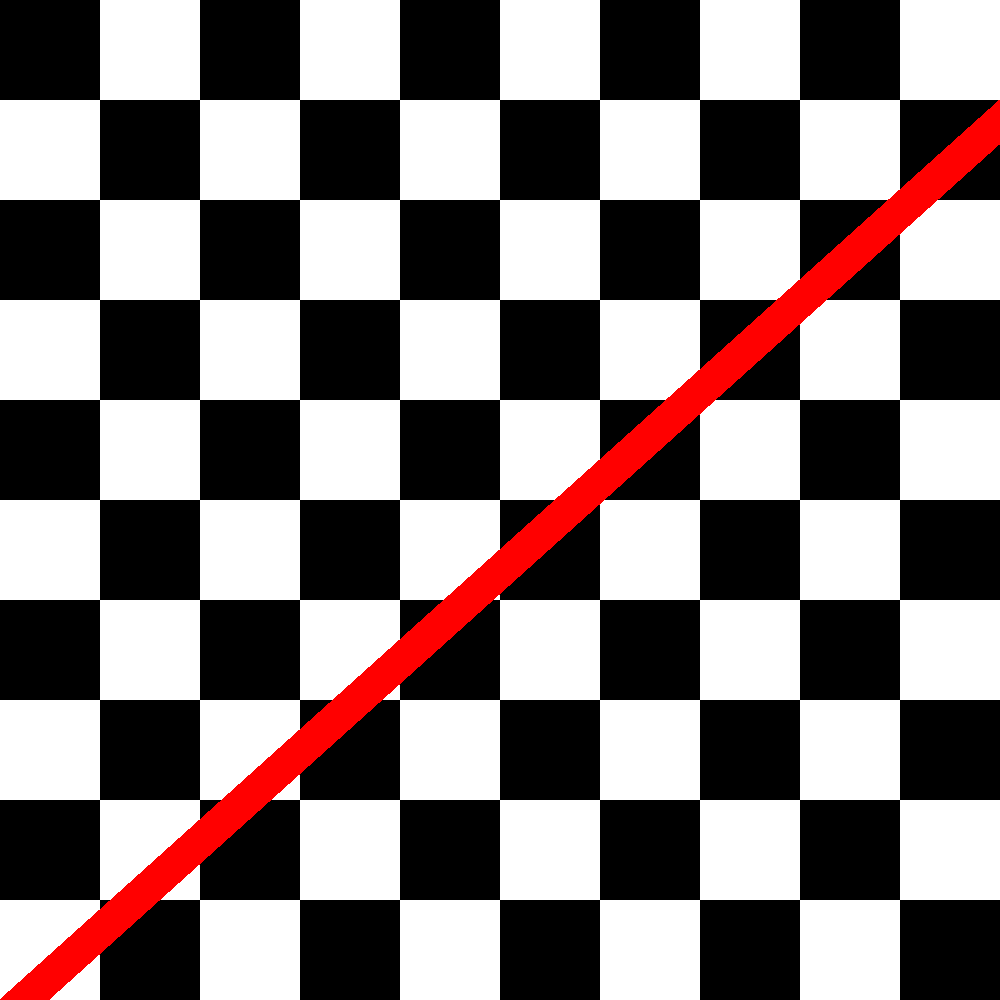
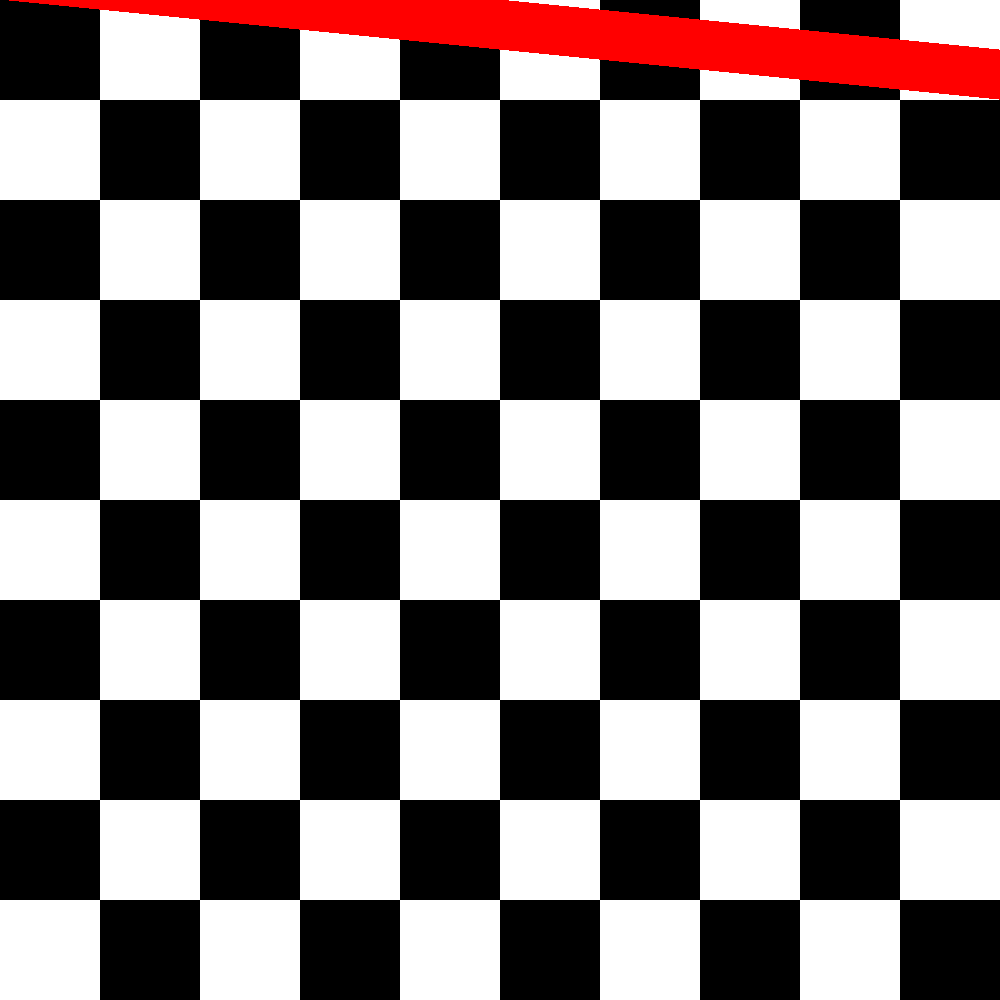
Delete lib.rs

Changed region(s): [[0.0, 0.0, 1.0, 1.0]]

diff --git a/src/lib.rs b/src/lib.rs
@@ -1,159 +1,3 @@
 pub mod components;
 pub mod config;
 pub mod error;
-
-// #[derive(Debug, Clone)]
-// pub struct Buffer {
-//     pub content: Option<ImageBuffer<Rgb<u8>, Vec<u8>>>,
-//     config: Option<Config>,
-// }
-
-// impl Buffer {
-//     pub fn new() -> Self {
-//         Self {
-//             config: None,
-//             content: None,
-//         }
-//     }
-//     pub fn config(&mut self, config: Config) -> &mut Buffer {
-//         self.config = Some(config);
-//         self
-//     }
-//     pub fn build(&mut self) -> Result<Buffer, Box<dyn Error>> {
-//         if let Some(config) = self.config {
-//             let width = config.width;
-//             let height = config.height;
-//             let color = config.color;
-
-//             let mut image_buffer = RgbImage::new(width, height);
-
-//             for y in 0..height {
-//                 for x in 0..width {
-//                     image_buffer.put_pixel(x, y, color);
-//                 }
-//             }
-//             self.content = Some(image_buffer);
-//             Ok(self.to_owned())
-//         } else {
-//             Err(Box::new(CustomError::BuildError))
-//         }
-//     }
-//     pub fn draw_rect(&mut self, x1: u32, y1: u32, w: u32, h: u32, color: Rgb<u8>) {
-//         if let Some(config) = self.config {
-//             let x2 = x1 + w;
-//             let y2 = y1 + h;
-//             if y2 > config.height || x2 > config.height {
-//                 eprintln!("ERROR: out of canvas");
-//                 std::process::exit(1);
-//             }
-
-//             for y in y1..y2 {
-//                 for x in x1..x2 {
-//                     let content = self.content.as_mut().unwrap();
-//                     content.put_pixel(x, y, color);
-//                 }
-//             }
-//         }
-//     }
-//     pub fn draw_circle(&mut self, cx: u32, cy: u32, r: u32, color: Rgb<u8>) {
-//         if let Some(config) = self.config {
-//             let x1 = cx - r;
-//             let x2 = cx + r;
-//             let y1 = cy - r;
-//             let y2 = cy + r;
-
-//             if y2 > config.height || x2 > config.height {
-//                 eprintln!("ERROR: out of canvas");
-//                 std::process::exit(1);
-//             }
-
-//             for y in y1..y2 {
-//                 for x in x1..x2 {
-//                     let content = self.content.as_mut().unwrap();
-//                     let dx: i32 = x as i32 - cx as i32;
-//                     let dy: i32 = y as i32 - cy as i32;
-//                     if dx * dx + dy * dy < r as i32 * r as i32 {
-//                         content.put_pixel(x, y, color);
-//                     }
-//                 }
-//             }
-//         }
-//     }
-//     pub fn draw_line(&mut self, x1: u32, y1: u32, x2: u32, y2: u32, w: u32, color: Rgb<u8>) {
-//         if let Some(config) = self.config {
-//             let content = self.content.as_mut().unwrap();
-//             let dx: f32 = x2 as f32 - x1 as f32;
-//             let dy: f32 = y2 as f32 - y1 as f32;
-
-//             if dx != 0.0 {
-//                 let k: f32 = dy / dx;
-//                 let c: f32 = y1 as f32 - (k * x1 as f32);
-
-//                 if k == 0.0 {
-//                     for x in x1..x2 {
-//                         for y in y1..y1 + w {
-//                             content.put_pixel(x, y, color);
-//                         }
-//                     }
-//                 } else {
-//                     if x1 > x2 {
-//                         for x in x2..x1 {
-//                             for x1 in x..x + w {
-//                                 let y1 = k * x as f32 + c;
-//                                 let y2 = k * (x + 1) as f32 + c;
-
-//                                 for y in y2 as u32..y1 as u32 {
-//                                     if x1 < config.width && y < config.height {
-//                                         content.put_pixel(x1, y as u32, color);
-//                                     }
-//                                 }
-//                             }
-//                         }
-//                     }
-//                     if x2 > x1 {
-//                         for x in x1..x2 {
-//                             for x1 in x..x + w {
-//                                 let y1 = k * x as f32 + c;
-//                                 let y2 = k * (x + 1) as f32 + c;
-
-//                                 for y in y1 as u32..y2 as u32 {
-//                                     if x1 < config.width && y < config.height {
-//                                         content.put_pixel(x1, y as u32, color);
-//                                     }
-//                                 }
-//                             }
-//                         }
-//                     }
-//                 }
-//             } else {
-//                 if y1 > y2 {
-//                     for y in y2..y1 {
-//                         for x in x1..x1 + w {
-//                             if x < config.width && y < config.height {
-//                                 content.put_pixel(x, y, color);
-//                             }
-//                         }
-//                     }
-//                 }
-//                 if y2 > y1 {
-//                     for y in y1..y2 {
-//                         for x in x1..x1 + w {
-//                             if x < config.width && y < config.height {
-//                                 content.put_pixel(x, y, color);
-//                             }
-//                         }
-//                     }
-//                 }
-//             }
-//         }
-//     }
-//     pub fn save(&self) -> Result<(), Box<dyn Error>> {
-//         if let Some(buffer) = self.content.clone() {
-//             let config = self.config.expect("ERROR: No config");
-//             buffer.save(config.path)?;
-//             Ok(())
-//         } else {
-//             Err(Box::new(CustomError::SaveError))
-//         }
-//     }
-// }

diff --git a/src/main.rs b/src/main.rs
@@ -42,7 +42,7 @@ fn main() -> Result<(), Box<dyn Error>> {
         }
     }
 
-    let line = Line::new(1000, 100, 0, 1000, 50, Rgb([255, 0, 0]));
+    let line = Line::new(1000, 100, 0, 0, 500, Rgb([255, 0, 0]));
 
     let mut image = Buffer::new()
         .config(CONFIG)
